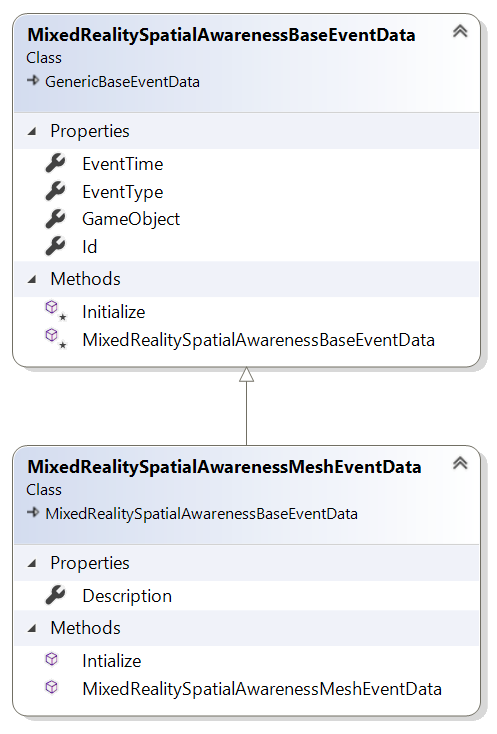
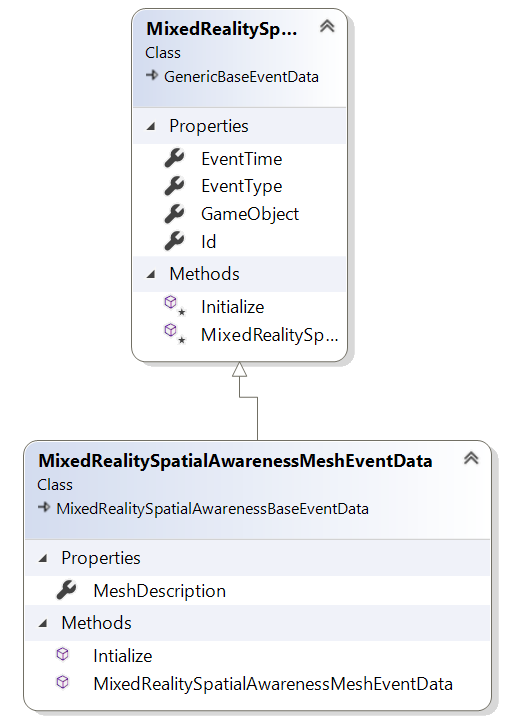
in person feedback, update images

Changed region(s): [[0.0, 0.0, 0.996, 1.0], [0.9054, 0.0305, 0.9356, 0.061]]

diff --git a/Documentation/Architecture/SpatialAwarenessSystemArchitecture.md b/Documentation/Architecture/SpatialAwarenessSystemArchitecture.md
@@ -100,18 +100,6 @@ Applications that wish to process the Meshes should set this value to false.
 
 Gets or sets the material to be used when rendering spatial meshes.
 
-#### void RaiseMeshAdded(uint meshId, Vector3 position, Mesh meshData, GameObject meshObject)
-
-The spatial awareness system will call the IMixedRealitySpatialAwarenessMeshHandler.OnMeshAdded method to indicate a new mesh has been added.
-
-#### void RaiseMeshUpdated(uint meshId, Vector3 position, Mesh meshData, GameObject meshObject)
-
-The spatial awareness system will call the IMixedRealitySpatialAwarenessMeshHandler.OnMeshUpdated method to indicate an existing mesh has changed.
-
-#### void RaiseMeshRemoved(uint meshId)
-
-The spatial awareness system will call the IMixedRealitySpatialAwarenessMeshHandler.OnMeshRemoved method to indicate an existing mesh has been removed.
-
 #### [MixedRealitySpatialAwarenessMeshDescription](#mixedrealityspatialawarenessmeshdescription)[] GetMeshes()
 
 Returns the collection of Meshes being managed by the spatial awareness mesh subsystem.
@@ -173,18 +161,6 @@ Gets or sets a value indicating if the surface subsystem is to automatically dis
 #### PlatformSurfaceMaterial
 
 Gets or sets the material to be used when rendering planar surface(s) identified as a raised horizontal platform.
-
-#### void RaiseSurfaceAdded(uint surfaceId, Vector3 position, Bounds surfaceData, Vector3 normal, GameObject surfaceObject)
-
-The spatial awareness system will call the IMixedRealitySpatialAwarenessSurfaceFindingHandler.OnSurfaceAdded method to indicate a new planar surface has been added.
-
-#### void RaiseSurfaceUpdated(uint surfaceId, Vector3 position, Bounds surfaceData, Vector3 normal, GameObject surfaceObject)
-
-The spatial awareness system will call the IMixedRealitySpatialAwarenessSurfaceFindingHandler.OnSurfaceUpdated method to indicate an existing planar surface has changed.
-
-#### void RaiseSurfaceRemoved(uint surfaceId)
-
-The spatial awareness system will call the IMixedRealitySpatialAwarenessSurfaceFindingHandler.OnSurfaceRemoved method to indicate an existing planar surface has been removed.
 
 #### [MixedRealitySpatialAwarenessPlanarSurfaceDescription](#mixedrealityspatialawarenessplanarsurfacedescription)[] GetSurfaces()
 
@@ -559,7 +535,7 @@ public enum MixedRealitySpatialAwarenessSurfaceTypes
     /// A raised, horizontal surface such as a shelf.
     /// </summary>
     /// <remarks>
-    Platforms, like floors, that can be used for placing objects 
+    /// Platforms, like floors, can be used for placing objects 
     /// requiring a horizontal surface.
     /// </remarks>
     Platform
@@ -581,7 +557,7 @@ public enum MixedRealitySpatialAwarenessMeshLevelOfDetail
     /// </summary>
     Custom = -1,
 
-   /// <summary>
+    /// <summary>
     /// The coarse level of detail is well suited for identifying large
     /// environmental features, such as floors and walls.
     /// </summary>
@@ -667,7 +643,7 @@ The MixedRealitySpatialAwarenessMeshEventData derives from [MixedRealitySpatialA
 
 *Inherited from [MixedRealitySpatialAwarenessBaseEventData](#mixedrealityspatialawarenessbaseeventdata).*
 
-### Description
+### MeshDescription
 
 | Type |
 | --- |
@@ -675,7 +651,7 @@ The MixedRealitySpatialAwarenessMeshEventData derives from [MixedRealitySpatialA
 
 For MeshAdded and MeshUpdated events, this will contain the mesh description. For MeshRemoved, the value will be null.
 
-## MixedRealitySpatialSurfaceEventData
+## MixedRealitySpatialAwarenessSurfaceEventData
 
 | Toolkit Layer | Namespace |
 | --- | --- |
@@ -701,7 +677,7 @@ The MixedRealitySpatialSurfaceEventData derives from [MixedRealitySpatialAwarene
 
 *Inherited from [MixedRealitySpatialAwarenessBaseEventData](#mixedrealityspatialawarenessbaseeventdata).*
 
-### Description
+### SurfaceDescription
 
 | Type |
 | --- |
